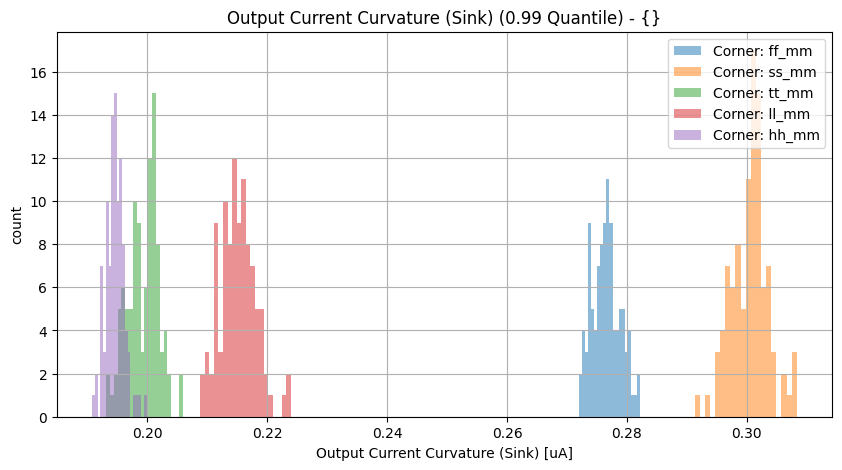
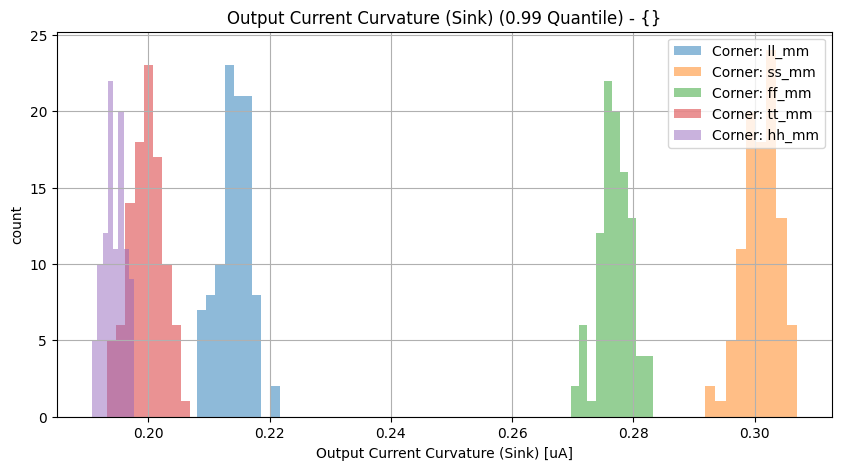
Jenkins update

diff --git a/vthref/vthref/Readme.md b/vthref/vthref/Readme.md
@@ -1,4 +1,4 @@
-24.11.2022, 23:44:30
+24.11.2022, 23:47:46
 
 # Vth Current Reference
 
@@ -30,8 +30,8 @@
 
 | Parameter | Min (Spec. / Sim.) |      | Max (Sim. / Spec.) | Unit | Checks (total/pass/fail/NaN) | Comment |
 | :-------- | -----------------: | :--: | :----------------- | :--- | :--------------------------- | ------- |
-| Output Current Curvature (Sink) | 0.0 / 0.191 | <svg height="20" width="150"><polyline points="3.0,3,3.0,17,147.0,17,147.0,3" style="fill:none;stroke:gray;stroke-width:1" /><polyline points="75.0,10.0,75.0,17" style="fill:none;stroke:gray;stroke-width:1" /><polyline points="30.4760496,10.0,47.400528,10.0" style="stroke:green;stroke-width:2" /><circle cx="30.4760496" cy="10.0" r="3" style="fill:green;stroke:green;stroke-width:0" /><circle cx="47.400528" cy="10.0" r="3" style="fill:green;stroke:green;stroke-width:0" /></svg> | 0.308 / 1.0 | uA | 500/100.0%/0.0%/0.0% |  |
-| Output Current Curvature (Source) | 0.0 / 0.193 | <svg height="20" width="150"><polyline points="3.0,3,3.0,17,147.0,17,147.0,3" style="fill:none;stroke:gray;stroke-width:1" /><polyline points="75.0,10.0,75.0,17" style="fill:none;stroke:gray;stroke-width:1" /><polyline points="30.7629552,10.0,46.8954192,10.0" style="stroke:green;stroke-width:2" /><circle cx="30.7629552" cy="10.0" r="3" style="fill:green;stroke:green;stroke-width:0" /><circle cx="46.8954192" cy="10.0" r="3" style="fill:green;stroke:green;stroke-width:0" /></svg> | 0.305 / 1.0 | uA | 500/100.0%/0.0%/0.0% |  |
+| Output Current Curvature (Sink) | 0.0 / 0.191 | <svg height="20" width="150"><polyline points="3.0,3,3.0,17,147.0,17,147.0,3" style="fill:none;stroke:gray;stroke-width:1" /><polyline points="75.0,10.0,75.0,17" style="fill:none;stroke:gray;stroke-width:1" /><polyline points="30.4689936,10.0,47.1950688,10.0" style="stroke:green;stroke-width:2" /><circle cx="30.4689936" cy="10.0" r="3" style="fill:green;stroke:green;stroke-width:0" /><circle cx="47.1950688" cy="10.0" r="3" style="fill:green;stroke:green;stroke-width:0" /></svg> | 0.307 / 1.0 | uA | 500/100.0%/0.0%/0.0% |  |
+| Output Current Curvature (Source) | 0.0 / 0.193 | <svg height="20" width="150"><polyline points="3.0,3,3.0,17,147.0,17,147.0,3" style="fill:none;stroke:gray;stroke-width:1" /><polyline points="75.0,10.0,75.0,17" style="fill:none;stroke:gray;stroke-width:1" /><polyline points="30.82908,10.0,47.071343999999996,10.0" style="stroke:green;stroke-width:2" /><circle cx="30.82908" cy="10.0" r="3" style="fill:green;stroke:green;stroke-width:0" /><circle cx="47.071343999999996" cy="10.0" r="3" style="fill:green;stroke:green;stroke-width:0" /></svg> | 0.306 / 1.0 | uA | 500/100.0%/0.0%/0.0% |  |
 
 <br>
 
@@ -50,26 +50,20 @@
 
 | Parameter | Min (Spec. / Sim.) |      | Max (Sim. / Spec.) | Unit | Checks (total/pass/fail/NaN) | Comment |
 | :-------- | -----------------: | :--: | :----------------- | :--- | :--------------------------- | ------- |
-| Output Current Curvature (Sink) | 0.0 / 0.193 | <svg height="20" width="150"><polyline points="3.0,3,3.0,17,33.32730107870419,17,33.32730107870419,3" style="fill:none;stroke:gray;stroke-width:1" /><polyline points="18.163650539352094,10.0,18.163650539352094,17" style="fill:none;stroke:gray;stroke-width:1" /><polyline points="8.86223697121244,10.0,147.0,10.0" style="stroke:red;stroke-width:2" /><circle cx="8.86223697121244" cy="10.0" r="3" style="fill:red;stroke:red;stroke-width:0" /><circle cx="147.0" cy="10.0" r="3" style="fill:red;stroke:red;stroke-width:0" /></svg> | 4.748 / 1.0 | uA | 500/98.8%/1.2%/0.0% |  |
-| Output Current Curvature (Source) | 0.0 / 0.197 | <svg height="20" width="150"><polyline points="3.0,3,3.0,17,33.813482353610816,17,33.813482353610816,3" style="fill:none;stroke:gray;stroke-width:1" /><polyline points="18.406741176805408,10.0,18.406741176805408,17" style="fill:none;stroke:gray;stroke-width:1" /><polyline points="9.063061075531763,10.0,147.0,10.0" style="stroke:red;stroke-width:2" /><circle cx="9.063061075531763" cy="10.0" r="3" style="fill:red;stroke:red;stroke-width:0" /><circle cx="147.0" cy="10.0" r="3" style="fill:red;stroke:red;stroke-width:0" /></svg> | 4.673 / 1.0 | uA | 500/98.8%/1.2%/0.0% |  |
+| Output Current Curvature (Sink) | 0.0 / 0.193 | <svg height="20" width="150"><polyline points="3.0,3,3.0,17,36.046327508841614,17,36.046327508841614,3" style="fill:none;stroke:gray;stroke-width:1" /><polyline points="19.523163754420807,10.0,19.523163754420807,17" style="fill:none;stroke:gray;stroke-width:1" /><polyline points="9.374216888096186,10.0,147.0,10.0" style="stroke:red;stroke-width:2" /><circle cx="9.374216888096186" cy="10.0" r="3" style="fill:red;stroke:red;stroke-width:0" /><circle cx="147.0" cy="10.0" r="3" style="fill:red;stroke:red;stroke-width:0" /></svg> | 4.358 / 1.0 | uA | 500/99.4%/0.6%/0.0% |  |
+| Output Current Curvature (Source) | 0.0 / 0.197 | <svg height="20" width="150"><polyline points="3.0,3,3.0,17,36.57780618936903,17,36.57780618936903,3" style="fill:none;stroke:gray;stroke-width:1" /><polyline points="19.788903094684514,10.0,19.788903094684514,17" style="fill:none;stroke:gray;stroke-width:1" /><polyline points="9.622993941770954,10.0,146.99999999999997,10.0" style="stroke:red;stroke-width:2" /><circle cx="9.622993941770954" cy="10.0" r="3" style="fill:red;stroke:red;stroke-width:0" /><circle cx="146.99999999999997" cy="10.0" r="3" style="fill:red;stroke:red;stroke-width:0" /></svg> | 4.289 / 1.0 | uA | 500/99.4%/0.6%/0.0% |  |
 
 <details><summary>Show specification violation details...</summary>
 
 > **FAIL:** Specification violation for parameter "Output Current Curvature (Sink)":<br>
-> **FAIL:** group:ll_mm file:work/sim/vthref/vthref_tb.4_dcext/batch_2/ll_mm/dc.csv Index:1 <br>
-> **FAIL:** group:ll_mm file:work/sim/vthref/vthref_tb.4_dcext/batch_2/ll_mm/dc.csv Index:14 <br>
-> **FAIL:** group:ll_mm file:work/sim/vthref/vthref_tb.4_dcext/batch_4/ll_mm/dc.csv Index:4 <br>
-> **FAIL:** group:ll_mm file:work/sim/vthref/vthref_tb.4_dcext/batch_4/ll_mm/dc.csv Index:14 <br>
-> **FAIL:** group:ll_mm file:work/sim/vthref/vthref_tb.4_dcext/batch_3/ll_mm/dc.csv Index:18 <br>
-> **FAIL:** group:ff_mm file:work/sim/vthref/vthref_tb.4_dcext/batch_3/ff_mm/dc.csv Index:18 <br>
+> **FAIL:** group:ll_mm file:work/sim/vthref/vthref_tb.4_dcext/batch_2/ll_mm/dc.csv Index:6 <br>
+> **FAIL:** group:ll_mm file:work/sim/vthref/vthref_tb.4_dcext/batch_2/ll_mm/dc.csv Index:9 <br>
+> **FAIL:** group:ll_mm file:work/sim/vthref/vthref_tb.4_dcext/batch_4/ll_mm/dc.csv Index:8 <br>
 
 > **FAIL:** Specification violation for parameter "Output Current Curvature (Source)":<br>
-> **FAIL:** group:ll_mm file:work/sim/vthref/vthref_tb.4_dcext/batch_2/ll_mm/dc.csv Index:1 <br>
-> **FAIL:** group:ll_mm file:work/sim/vthref/vthref_tb.4_dcext/batch_2/ll_mm/dc.csv Index:14 <br>
-> **FAIL:** group:ll_mm file:work/sim/vthref/vthref_tb.4_dcext/batch_4/ll_mm/dc.csv Index:4 <br>
-> **FAIL:** group:ll_mm file:work/sim/vthref/vthref_tb.4_dcext/batch_4/ll_mm/dc.csv Index:14 <br>
-> **FAIL:** group:ll_mm file:work/sim/vthref/vthref_tb.4_dcext/batch_3/ll_mm/dc.csv Index:18 <br>
-> **FAIL:** group:ff_mm file:work/sim/vthref/vthref_tb.4_dcext/batch_3/ff_mm/dc.csv Index:18 <br>
+> **FAIL:** group:ll_mm file:work/sim/vthref/vthref_tb.4_dcext/batch_2/ll_mm/dc.csv Index:6 <br>
+> **FAIL:** group:ll_mm file:work/sim/vthref/vthref_tb.4_dcext/batch_2/ll_mm/dc.csv Index:9 <br>
+> **FAIL:** group:ll_mm file:work/sim/vthref/vthref_tb.4_dcext/batch_4/ll_mm/dc.csv Index:8 <br>
 </details><br>
 
 

diff --git a/vthref/vthref/specReport.md b/vthref/vthref/specReport.md
@@ -13,8 +13,8 @@
 
 | Parameter | Min (Spec. / Sim.) |      | Max (Sim. / Spec.) | Unit | Checks (total/pass/fail/NaN) | Comment |
 | :-------- | -----------------: | :--: | :----------------- | :--- | :--------------------------- | ------- |
-| Output Current Curvature (Sink) | 0.0 / 0.191 | <svg height="20" width="150"><polyline points="3.0,3,3.0,17,147.0,17,147.0,3" style="fill:none;stroke:gray;stroke-width:1" /><polyline points="75.0,10.0,75.0,17" style="fill:none;stroke:gray;stroke-width:1" /><polyline points="30.4760496,10.0,47.400528,10.0" style="stroke:green;stroke-width:2" /><circle cx="30.4760496" cy="10.0" r="3" style="fill:green;stroke:green;stroke-width:0" /><circle cx="47.400528" cy="10.0" r="3" style="fill:green;stroke:green;stroke-width:0" /></svg> | 0.308 / 1.0 | uA | 500/100.0%/0.0%/0.0% |  |
-| Output Current Curvature (Source) | 0.0 / 0.193 | <svg height="20" width="150"><polyline points="3.0,3,3.0,17,147.0,17,147.0,3" style="fill:none;stroke:gray;stroke-width:1" /><polyline points="75.0,10.0,75.0,17" style="fill:none;stroke:gray;stroke-width:1" /><polyline points="30.7629552,10.0,46.8954192,10.0" style="stroke:green;stroke-width:2" /><circle cx="30.7629552" cy="10.0" r="3" style="fill:green;stroke:green;stroke-width:0" /><circle cx="46.8954192" cy="10.0" r="3" style="fill:green;stroke:green;stroke-width:0" /></svg> | 0.305 / 1.0 | uA | 500/100.0%/0.0%/0.0% |  |
+| Output Current Curvature (Sink) | 0.0 / 0.191 | <svg height="20" width="150"><polyline points="3.0,3,3.0,17,147.0,17,147.0,3" style="fill:none;stroke:gray;stroke-width:1" /><polyline points="75.0,10.0,75.0,17" style="fill:none;stroke:gray;stroke-width:1" /><polyline points="30.4689936,10.0,47.1950688,10.0" style="stroke:green;stroke-width:2" /><circle cx="30.4689936" cy="10.0" r="3" style="fill:green;stroke:green;stroke-width:0" /><circle cx="47.1950688" cy="10.0" r="3" style="fill:green;stroke:green;stroke-width:0" /></svg> | 0.307 / 1.0 | uA | 500/100.0%/0.0%/0.0% |  |
+| Output Current Curvature (Source) | 0.0 / 0.193 | <svg height="20" width="150"><polyline points="3.0,3,3.0,17,147.0,17,147.0,3" style="fill:none;stroke:gray;stroke-width:1" /><polyline points="75.0,10.0,75.0,17" style="fill:none;stroke:gray;stroke-width:1" /><polyline points="30.82908,10.0,47.071343999999996,10.0" style="stroke:green;stroke-width:2" /><circle cx="30.82908" cy="10.0" r="3" style="fill:green;stroke:green;stroke-width:0" /><circle cx="47.071343999999996" cy="10.0" r="3" style="fill:green;stroke:green;stroke-width:0" /></svg> | 0.306 / 1.0 | uA | 500/100.0%/0.0%/0.0% |  |
 
 <br>
 
@@ -33,25 +33,19 @@
 
 | Parameter | Min (Spec. / Sim.) |      | Max (Sim. / Spec.) | Unit | Checks (total/pass/fail/NaN) | Comment |
 | :-------- | -----------------: | :--: | :----------------- | :--- | :--------------------------- | ------- |
-| Output Current Curvature (Sink) | 0.0 / 0.193 | <svg height="20" width="150"><polyline points="3.0,3,3.0,17,33.32730107870419,17,33.32730107870419,3" style="fill:none;stroke:gray;stroke-width:1" /><polyline points="18.163650539352094,10.0,18.163650539352094,17" style="fill:none;stroke:gray;stroke-width:1" /><polyline points="8.86223697121244,10.0,147.0,10.0" style="stroke:red;stroke-width:2" /><circle cx="8.86223697121244" cy="10.0" r="3" style="fill:red;stroke:red;stroke-width:0" /><circle cx="147.0" cy="10.0" r="3" style="fill:red;stroke:red;stroke-width:0" /></svg> | 4.748 / 1.0 | uA | 500/98.8%/1.2%/0.0% |  |
-| Output Current Curvature (Source) | 0.0 / 0.197 | <svg height="20" width="150"><polyline points="3.0,3,3.0,17,33.813482353610816,17,33.813482353610816,3" style="fill:none;stroke:gray;stroke-width:1" /><polyline points="18.406741176805408,10.0,18.406741176805408,17" style="fill:none;stroke:gray;stroke-width:1" /><polyline points="9.063061075531763,10.0,147.0,10.0" style="stroke:red;stroke-width:2" /><circle cx="9.063061075531763" cy="10.0" r="3" style="fill:red;stroke:red;stroke-width:0" /><circle cx="147.0" cy="10.0" r="3" style="fill:red;stroke:red;stroke-width:0" /></svg> | 4.673 / 1.0 | uA | 500/98.8%/1.2%/0.0% |  |
+| Output Current Curvature (Sink) | 0.0 / 0.193 | <svg height="20" width="150"><polyline points="3.0,3,3.0,17,36.046327508841614,17,36.046327508841614,3" style="fill:none;stroke:gray;stroke-width:1" /><polyline points="19.523163754420807,10.0,19.523163754420807,17" style="fill:none;stroke:gray;stroke-width:1" /><polyline points="9.374216888096186,10.0,147.0,10.0" style="stroke:red;stroke-width:2" /><circle cx="9.374216888096186" cy="10.0" r="3" style="fill:red;stroke:red;stroke-width:0" /><circle cx="147.0" cy="10.0" r="3" style="fill:red;stroke:red;stroke-width:0" /></svg> | 4.358 / 1.0 | uA | 500/99.4%/0.6%/0.0% |  |
+| Output Current Curvature (Source) | 0.0 / 0.197 | <svg height="20" width="150"><polyline points="3.0,3,3.0,17,36.57780618936903,17,36.57780618936903,3" style="fill:none;stroke:gray;stroke-width:1" /><polyline points="19.788903094684514,10.0,19.788903094684514,17" style="fill:none;stroke:gray;stroke-width:1" /><polyline points="9.622993941770954,10.0,146.99999999999997,10.0" style="stroke:red;stroke-width:2" /><circle cx="9.622993941770954" cy="10.0" r="3" style="fill:red;stroke:red;stroke-width:0" /><circle cx="146.99999999999997" cy="10.0" r="3" style="fill:red;stroke:red;stroke-width:0" /></svg> | 4.289 / 1.0 | uA | 500/99.4%/0.6%/0.0% |  |
 
 <details><summary>Show specification violation details...</summary>
 
 > **FAIL:** Specification violation for parameter "Output Current Curvature (Sink)":<br>
-> **FAIL:** group:ll_mm file:work/sim/vthref/vthref_tb.4_dcext/batch_2/ll_mm/dc.csv Index:1 <br>
-> **FAIL:** group:ll_mm file:work/sim/vthref/vthref_tb.4_dcext/batch_2/ll_mm/dc.csv Index:14 <br>
-> **FAIL:** group:ll_mm file:work/sim/vthref/vthref_tb.4_dcext/batch_4/ll_mm/dc.csv Index:4 <br>
-> **FAIL:** group:ll_mm file:work/sim/vthref/vthref_tb.4_dcext/batch_4/ll_mm/dc.csv Index:14 <br>
-> **FAIL:** group:ll_mm file:work/sim/vthref/vthref_tb.4_dcext/batch_3/ll_mm/dc.csv Index:18 <br>
-> **FAIL:** group:ff_mm file:work/sim/vthref/vthref_tb.4_dcext/batch_3/ff_mm/dc.csv Index:18 <br>
+> **FAIL:** group:ll_mm file:work/sim/vthref/vthref_tb.4_dcext/batch_2/ll_mm/dc.csv Index:6 <br>
+> **FAIL:** group:ll_mm file:work/sim/vthref/vthref_tb.4_dcext/batch_2/ll_mm/dc.csv Index:9 <br>
+> **FAIL:** group:ll_mm file:work/sim/vthref/vthref_tb.4_dcext/batch_4/ll_mm/dc.csv Index:8 <br>
 
 > **FAIL:** Specification violation for parameter "Output Current Curvature (Source)":<br>
-> **FAIL:** group:ll_mm file:work/sim/vthref/vthref_tb.4_dcext/batch_2/ll_mm/dc.csv Index:1 <br>
-> **FAIL:** group:ll_mm file:work/sim/vthref/vthref_tb.4_dcext/batch_2/ll_mm/dc.csv Index:14 <br>
-> **FAIL:** group:ll_mm file:work/sim/vthref/vthref_tb.4_dcext/batch_4/ll_mm/dc.csv Index:4 <br>
-> **FAIL:** group:ll_mm file:work/sim/vthref/vthref_tb.4_dcext/batch_4/ll_mm/dc.csv Index:14 <br>
-> **FAIL:** group:ll_mm file:work/sim/vthref/vthref_tb.4_dcext/batch_3/ll_mm/dc.csv Index:18 <br>
-> **FAIL:** group:ff_mm file:work/sim/vthref/vthref_tb.4_dcext/batch_3/ff_mm/dc.csv Index:18 <br>
+> **FAIL:** group:ll_mm file:work/sim/vthref/vthref_tb.4_dcext/batch_2/ll_mm/dc.csv Index:6 <br>
+> **FAIL:** group:ll_mm file:work/sim/vthref/vthref_tb.4_dcext/batch_2/ll_mm/dc.csv Index:9 <br>
+> **FAIL:** group:ll_mm file:work/sim/vthref/vthref_tb.4_dcext/batch_4/ll_mm/dc.csv Index:8 <br>
 </details><br>
 

diff --git a/bmbg/bmbgota/Readme.md b/bmbg/bmbgota/Readme.md
@@ -1,4 +1,4 @@
-24.11.2022, 23:44:30
+24.11.2022, 23:47:46
 
 # Beta-Multiplier Bandgap OTA
 

diff --git a/bmbg/bmbg/Readme.md b/bmbg/bmbg/Readme.md
@@ -1,4 +1,4 @@
-24.11.2022, 23:44:30
+24.11.2022, 23:47:46
 
 # Beta-Multiplier Bandgap
 

diff --git a/riosc/riosc/Readme.md b/riosc/riosc/Readme.md
@@ -1,4 +1,4 @@
-24.11.2022, 23:44:30
+24.11.2022, 23:47:46
 
 # Ring Oscillator
 

diff --git a/ldo/ldo/Readme.md b/ldo/ldo/Readme.md
@@ -1,4 +1,4 @@
-24.11.2022, 23:44:30
+24.11.2022, 23:47:46
 
 # 1.8 V LDO
 

diff --git a/ldo/ldoota/Readme.md b/ldo/ldoota/Readme.md
@@ -1,4 +1,4 @@
-24.11.2022, 23:44:30
+24.11.2022, 23:47:46
 
 # LDO OP
 
